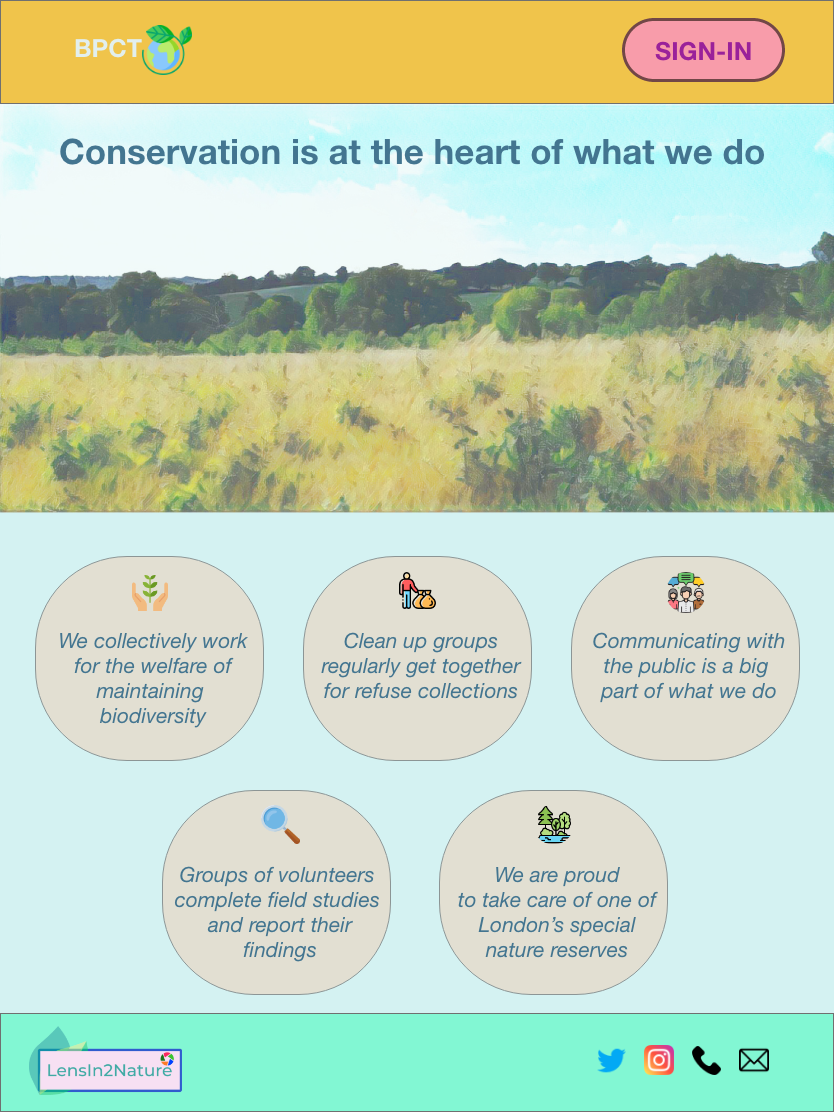
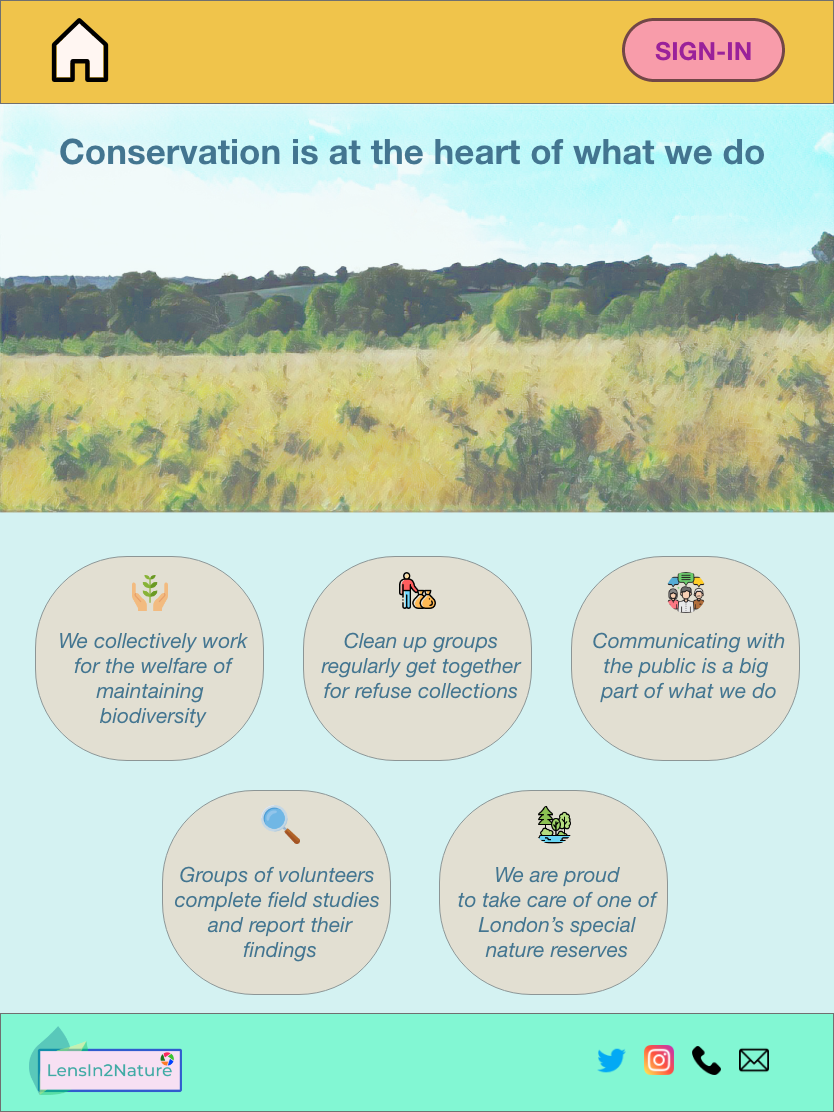
final text additions

Changed region(s): [[0.0624, 0.0, 0.2494, 0.0917]]

diff --git a/images-page.html b/images-page.html
@@ -58,22 +58,21 @@
     </section>
     <section class="comments">
       <p>
-        Fig 1A – 1C are different versions of the same image. The image in Fig
-        1A was taken using the camera on my smart phone (with the image format
-        being jpeg).
+        Figures 1a – 1c are different versions of the same image. The image in
+        Figure 1a was taken using the camera on my smart phone (jpeg format).
       </p>
       <p>
-        I used an app called Prisma to transform the image in Fig 1A to the
-        image in Fig 1B. The app uses an algorithm to apply a range of augmented
-        skins.
+        I used an app called Prisma to transform the image in Figure 1a to the
+        image to that in 1b. The app uses an algorithm to apply a range of
+        augmented skins.
       </p>
       <p>
-        I then used Affinity Photo to ‘clean’ the image in Fig 1B by using the
-        selection brush tool followed by adding a new adjustment layer in which
-        I increased the brightness and decreased the contrast in order to
-        minimise the markings on the sky. I then experimented with the
-        refinement tool to remove the heavy scoring on the bottom right of the
-        image, the result of this being Fig 1C.
+        I then used Affinity Photo to ‘clean’ the image in Figure 1b by using
+        the selection brush tool. I then added a new adjustment layer in which I
+        increased the brightness and decreased the contrast in order to minimise
+        the markings on the sky. Finally, I experimented with the refinement
+        tool to remove the heavy scoring on the bottom right of the image, the
+        result of this being Figure 1c.
       </p>
     </section>
     <section class="features">
@@ -132,20 +131,21 @@
     </section>
     <section class="comments">
       <p>
-        I didn’t process images 2B, 3B or 4B further on Affinity Photo as I was
-        happy with the foreground and sky on each of these.
+        I didn’t process images shown in Figures 2b, 3b or 4b further on
+        Affinity Photo as I was happy with the foreground and sky on each of
+        these.
       </p>
       <p>
-        Photos 1B, 2B, 3B and 4B had a 2:1 ratio which I wanted to maintain as
-        it’s a ratio that I felt would work for the headers in my web
-        development project. They were however all too large to be used for the
-        web so I had to make adjustments. Using Preview (on my mac), I reduced
-        the size of these images to 1500 by 729 pixels.
+        Images for Figures 1b, 2b, 3b and 4b had a 2:1 ratio which I wanted to
+        maintain as it’s a suitable ratio for the headers in my web development
+        project. They were however all too large to be used for the web, so I
+        had to make adjustments. Using Preview (on my mac), I reduced the size
+        of these images to 1500 by 729 pixels.
       </p>
       <p>
         At this stage, the file sizes were still too big, so I used Affinity
-        Photo to reduce the quality such that each image came to 500kb of data
-        which was more acceptable than the original 1.5Mb (for each file).
+        Photo to reduce the quality such that each image came to 500kB of data
+        which was more acceptable than the original 1.5MB.
       </p>
     </section>
     <section class="features">
@@ -168,20 +168,20 @@
     </section>
     <section class="comments">
       <p>
-        Fig 5A is an image taken on my digital camera and is a jpeg
+        Fig 5a is an image taken on my digital camera and is a jpeg
         representation of a raw file.
       </p>
       <p>
-        Shooting in low exposure allows me to then bring out the large depth of
+        Shooting in low exposure allows me to bring out the large depth of
         stored tones and colour data within the raw file. This was done using
         saturation and light level tools on my photo-editing software of choice
         - Luminar 4. The image was then exported as a jpeg file.
       </p>
       <p>
-        The result of this work was Fig 5B. Affinity Photo was then used to
-        reduce the file size and on this occasion I also used Affinity Photo to
-        reduce the image size. Note: I opted not to crop the image but leave it
-        in its 3:2 ratio as this was not going to be used as a header.
+        The resulted in the image shown in Figure 5b. Affinity Photo was then
+        used to reduce both the file and image sizes. Note: I opted not to crop
+        the image but leave it in its 3:2 ratio as this was not going to be used
+        as a header.
       </p>
     </section>
     <section class="features">
@@ -196,13 +196,13 @@
     </section>
     <section class="comments">
       <p>
-        Fig 6 is my logo which I designed using Affinity Designer. The font is
-        Montserrat, which is a font style I regularly use as I like the
+        Figure 6 is my logo which I designed using Affinity Designer. The font
+        is Montserrat, which is a style I regularly use as I like the
         distinctiveness off the lettering and the curves which have a
         nature-based aesthetic.
       </p>
       <p>
-        This image is stored as a .png file as it’s a lossless compression file
+        This image is stored as a .png file as it’s a lossless compression file,
         format perfect for logos. As the file is lossless, it also makes it
         perfect for transferring on to backgrounds whilst maintaining its
         integrity.
@@ -210,7 +210,7 @@
       <p>
         I had downloaded the plant leaf and camera aperture images (both .svg
         files) from flaticon. I used .svg files as they are vector-based, making
-        the images more crisp and visually appealing.I changed the colours and
+        the images more crisp and visually appealing. I changed the colours and
         appearance of layers using Affinity Designer.
       </p>
     </section>

diff --git a/mockups-page.html b/mockups-page.html
@@ -73,24 +73,52 @@
       </figure>
     </section>
     <section class="comments">
-      <p></p>
-      <p></p>
-      <p></p>
+      <p>
+        Figures 7a-7d represent four desktop pages with important information
+        that encourages registered users to sign in. This was not used in my
+        final React Project but is a fundamental aspect if the project were to
+        go live.
+      </p>
+      <p>
+        The processed <a href="images-page.html">images</a> were used as
+        headers, with the transparency reduced in order for less interference
+        with text. Each page would be loaded by selecting the relevant blue
+        circle.
+      </p>
+      <p>
+        The main font was Helvetica, but I now know that this is not PC friendly
+        and would need to be changed. The large font is in Montserrat as it is
+        has clear rounded letters with generous spacing that nicely accommodates
+        a nature-focussed website.
+      </p>
     </section>
     <section class="features">
       <figure>
         <img src="images/image 7e.png" alt="mockup of web-link to homepage" />
         <figcaption>
           <a href="images/image 7e.png" target="_blank"
-            >Fig 7e. Mockup of web-link homepage (tablet)</a
+            >Fig 7e. Mockup of web-link from homepage (tablet)</a
           >
         </figcaption>
       </figure>
     </section>
     <section class="comments">
-      <p></p>
-      <p></p>
-      <p></p>
+      <p>
+        Figure 7e represents a page (tablet view) that would be loaded if the
+        'Find Out More' button were to be clicked. The BPCT logo is replaced
+        with a home icon so that users can navigate back easily.
+      </p>
+      <p>
+        I felt the information links would enable users to feel part of an
+        active community whilst also encouraging unregistered users to join. I
+        originally had a Register link on the nav bar but felt it looked clumsy.
+      </p>
+      <p>
+        I've continued with the theme of using pastel colours as they are both
+        warm and inviting. Pastel colours appear fashionable across many
+        websites, but they also create a sense of safety which I believe is
+        important for a community website.
+      </p>
     </section>
     <section class="features">
       <figure>
@@ -103,9 +131,23 @@
       </figure>
     </section>
     <section class="comments">
-      <p></p>
-      <p></p>
-      <p></p>
+      <p>
+        Figure 7f represents an overlay (mobile view) that would be loaded if
+        the 'Sign-In' button were to be clicked. There is a simple procedure for
+        signing in, together with a option for re-setting a password if users
+        have forgotten their details.
+      </p>
+      <p>
+        I included a link for registering, which would take the user on to a
+        separate page. I felt this looked a little neater here as opposed to the
+        navbar but I realise that this could cause confusion and would require
+        user experience testing.
+      </p>
+      <p>
+        I blurred out the footer so as to discourage both registered and
+        unregistered users from using the social media icons to find further
+        information about signing-in.
+      </p>
     </section>
     <footer class="footer">
       <div class="inner-footer">

diff --git a/gifs-page.html b/gifs-page.html
@@ -41,9 +41,23 @@
       </figure>
     </section>
     <section class="comments">
-      <p></p>
-      <p></p>
-      <p></p>
+      <p>
+        The Gif shown in Figure 8a utilises the
+        <a href="images-page.html">processed images</a> shown in Figures 1a, 1b
+        and 1c. I wanted to show a transition from a normal photo to an
+        augmented image (with an 'impressionistic' skin), to a cleaner more
+        finalised look.
+      </p>
+      <p>
+        The Gif creates a stylish effect that shows the evolution of the image.
+        I liked how the scoring on the bottom right of the image disappears and
+        the way in which the sky becomes both smooth and bright.
+      </p>
+      <p>
+        However, despite cropping and compressing the file, the size remains
+        very large at over 7MB. I therefore wouldnt use it until I could
+        compress it further without overly compromising its finish.
+      </p>
     </section>
     <section class="features">
       <figure>
@@ -56,9 +70,23 @@
       </figure>
     </section>
     <section class="comments">
-      <p></p>
-      <p></p>
-      <p></p>
+      <p>
+        The Gif shown in Figure 8b is the plant leaf on my logo. I used both the
+        original image (once I converted it from a .svg to .png file as the Gif
+        generator didn't accept the former) as well as an altered version of
+        that file with different coloured layers (done on Affinity Designer).
+      </p>
+      <p>
+        The transition between the original and altered image shows an
+        intentional seasonal change from summer to autumn. The Gif could be used
+        as a loading image following some kind of form submission for my React
+        Project.
+      </p>
+      <p>
+        The file size is only 275kB and I think the size of the image is apt for
+        a loading page but the jagged edges could be further edited to give the
+        Gif a smoother finish.
+      </p>
     </section>
     <section class="features">
       <figure>
@@ -71,9 +99,23 @@
       </figure>
     </section>
     <section class="comments">
-      <p></p>
-      <p></p>
-      <p></p>
+      <p>
+        The Gif shown in Figure 8c is the camera aperture that also appears on
+        my logo. I again used two images, both of which were edited versions of
+        the original (which was also converted from a .svg to .png file). The
+        layers for both files had different colours (again done using Affinity
+        Designer).
+      </p>
+      <p>
+        The transition between the two files had the desired effect of embracing
+        both light and colour, which is important in photography. This Gif could
+        be used as a loading image following some kind of form submission for my
+        personal photography website.
+      </p>
+      <p>
+        The file size is 455kB which is a little large but I think the size of
+        the image is apt for a loading page.
+      </p>
     </section>
     <footer class="footer">
       <div class="inner-footer">
